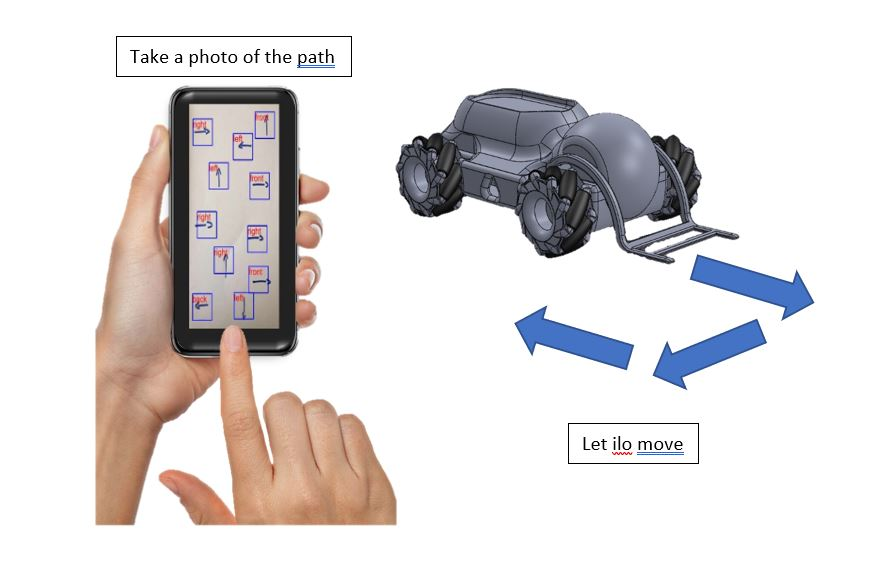
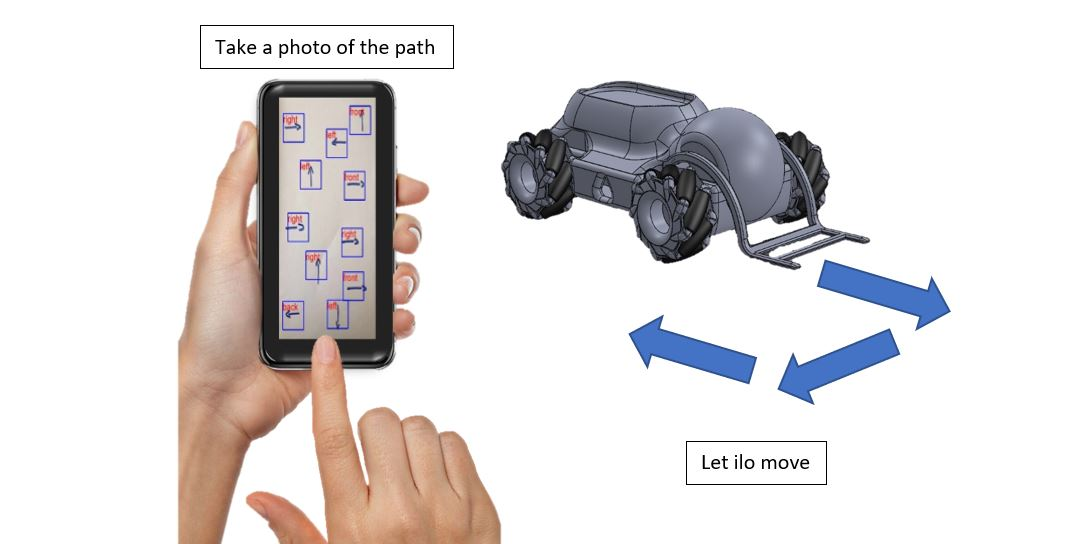
thumb images proj-3 & 4

Changed region(s): [[0.091, 0.0625, 0.4854, 1.0], [0.4247, 0.125, 0.9101, 0.875]]

diff --git a/projects/proj-4.md b/projects/proj-4.md
@@ -15,8 +15,12 @@ The robot embeds common and open source components to be easily made.
 
 #### Mechanical Design
 
-As the project aims to be open source, we try to make the robot fully 3D printable. 
+As the project aims to be open source, we try to make the robot fully 3D printable.
+
+{% include image-static.html image="projects/proj-4/wheels.jpg" %}
 
 #### Elementary Programming
 
 This now our goal to propose introduction to algorithms from the youngest age. We provide an easy way to learn how to structure computer code and execute it.
+
+{% include image-static.html image="projects/proj-4/image-detection.jpg" %}
